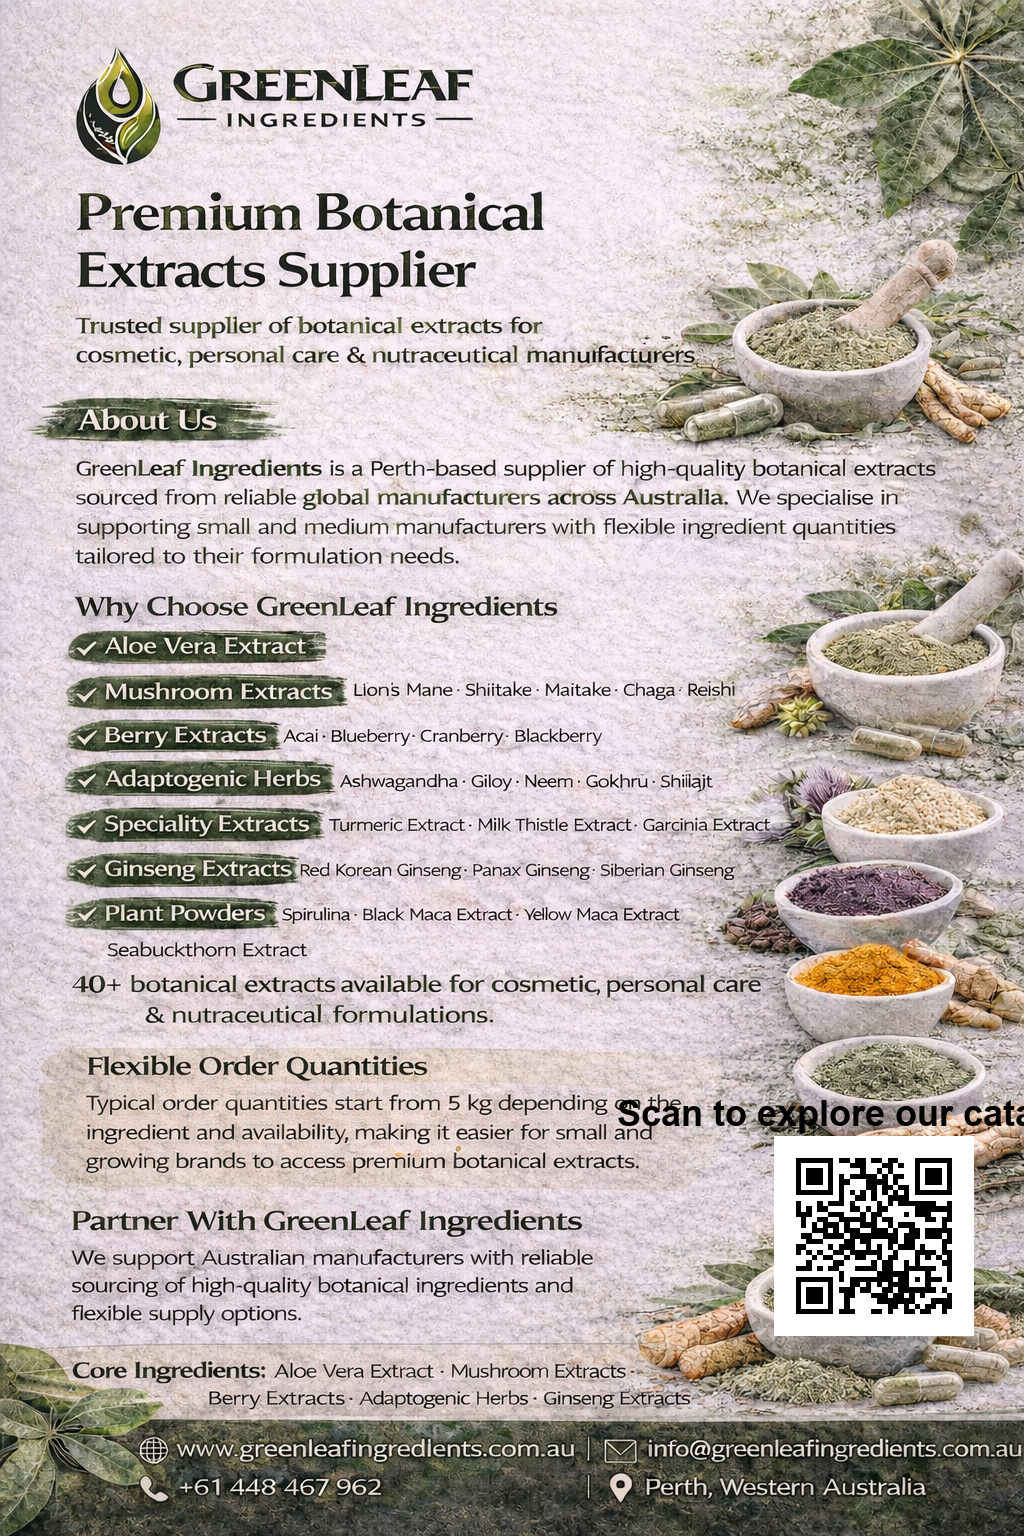
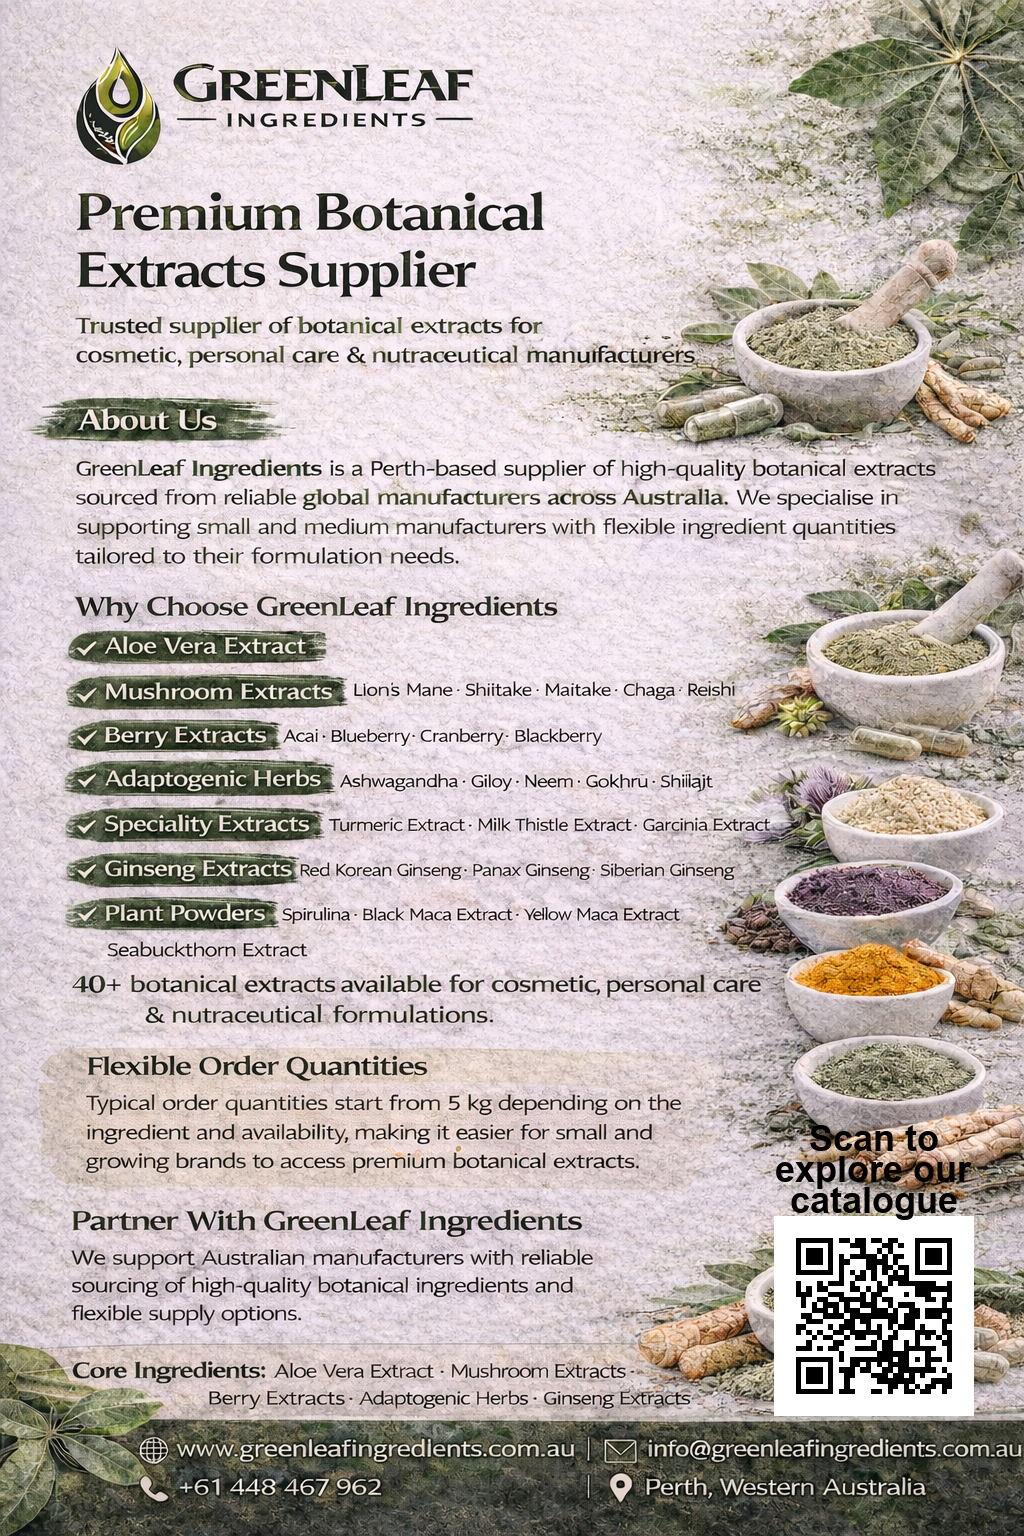
Move barcode further down and split text into 3 lines

Changed region(s): [[0.5938, 0.7188, 1.0, 0.9375]]

diff --git a/add_qr_to_image.py b/add_qr_to_image.py
@@ -17,7 +17,7 @@ qr_img = qr_img.resize((qr_size, qr_size))
 base = Image.open(input_image).convert("RGB")
 
 # Position QR code at right side, moved upward to avoid hiding text
-margin_bottom = 200
+margin_bottom = 120
 margin_right = 50
 
 # Position at bottom right
@@ -27,9 +27,11 @@ y = base.height - qr_size - margin_bottom
 # Paste QR code
 base.paste(qr_img, (x, y))
 
-# Add text above the QR code
+# Add text above the QR code in 2 lines
 draw = ImageDraw.Draw(base)
-text = "Scan to explore our catalogue"
+text_line1 = "Scan to"
+text_line2 = "explore our"
+text_line3 = "catalogue"
 
 # Try to use bold/thick font to match flyer style
 font_size = 36
@@ -47,17 +49,32 @@ except:
         except:
             font = ImageFont.load_default()
 
-# Calculate text position (above QR code on the right)
-text_bbox = draw.textbbox((0, 0), text, font=font)
-text_width = text_bbox[2] - text_bbox[0]
-text_height = text_bbox[3] - text_bbox[1]
+# Calculate text position for multiple lines (above QR code on the right)
+text_bbox1 = draw.textbbox((0, 0), text_line1, font=font)
+text_width1 = text_bbox1[2] - text_bbox1[0]
+text_height = text_bbox1[3] - text_bbox1[1]
 
-# Position text above the QR code, right-aligned with QR
-text_x = x + (qr_size - text_width) // 2
-text_y = y - text_height - 10
+# Position text above the QR code, centered with QR
+line_spacing = 5
+total_text_height = (text_height * 3) + (line_spacing * 2)
+
+text_x1 = x + (qr_size - text_width1) // 2
+text_y1 = y - total_text_height - 10
+
+text_bbox2 = draw.textbbox((0, 0), text_line2, font=font)
+text_width2 = text_bbox2[2] - text_bbox2[0]
+text_x2 = x + (qr_size - text_width2) // 2
+text_y2 = text_y1 + text_height + line_spacing
+
+text_bbox3 = draw.textbbox((0, 0), text_line3, font=font)
+text_width3 = text_bbox3[2] - text_bbox3[0]
+text_x3 = x + (qr_size - text_width3) // 2
+text_y3 = text_y2 + text_height + line_spacing
 
 # Draw text in dark color with semi-bold appearance
-draw.text((text_x, text_y), text, fill=(0, 0, 0), font=font)
+draw.text((text_x1, text_y1), text_line1, fill=(0, 0, 0), font=font)
+draw.text((text_x2, text_y2), text_line2, fill=(0, 0, 0), font=font)
+draw.text((text_x3, text_y3), text_line3, fill=(0, 0, 0), font=font)
 
 # Save the image
 base.save(output_image)
